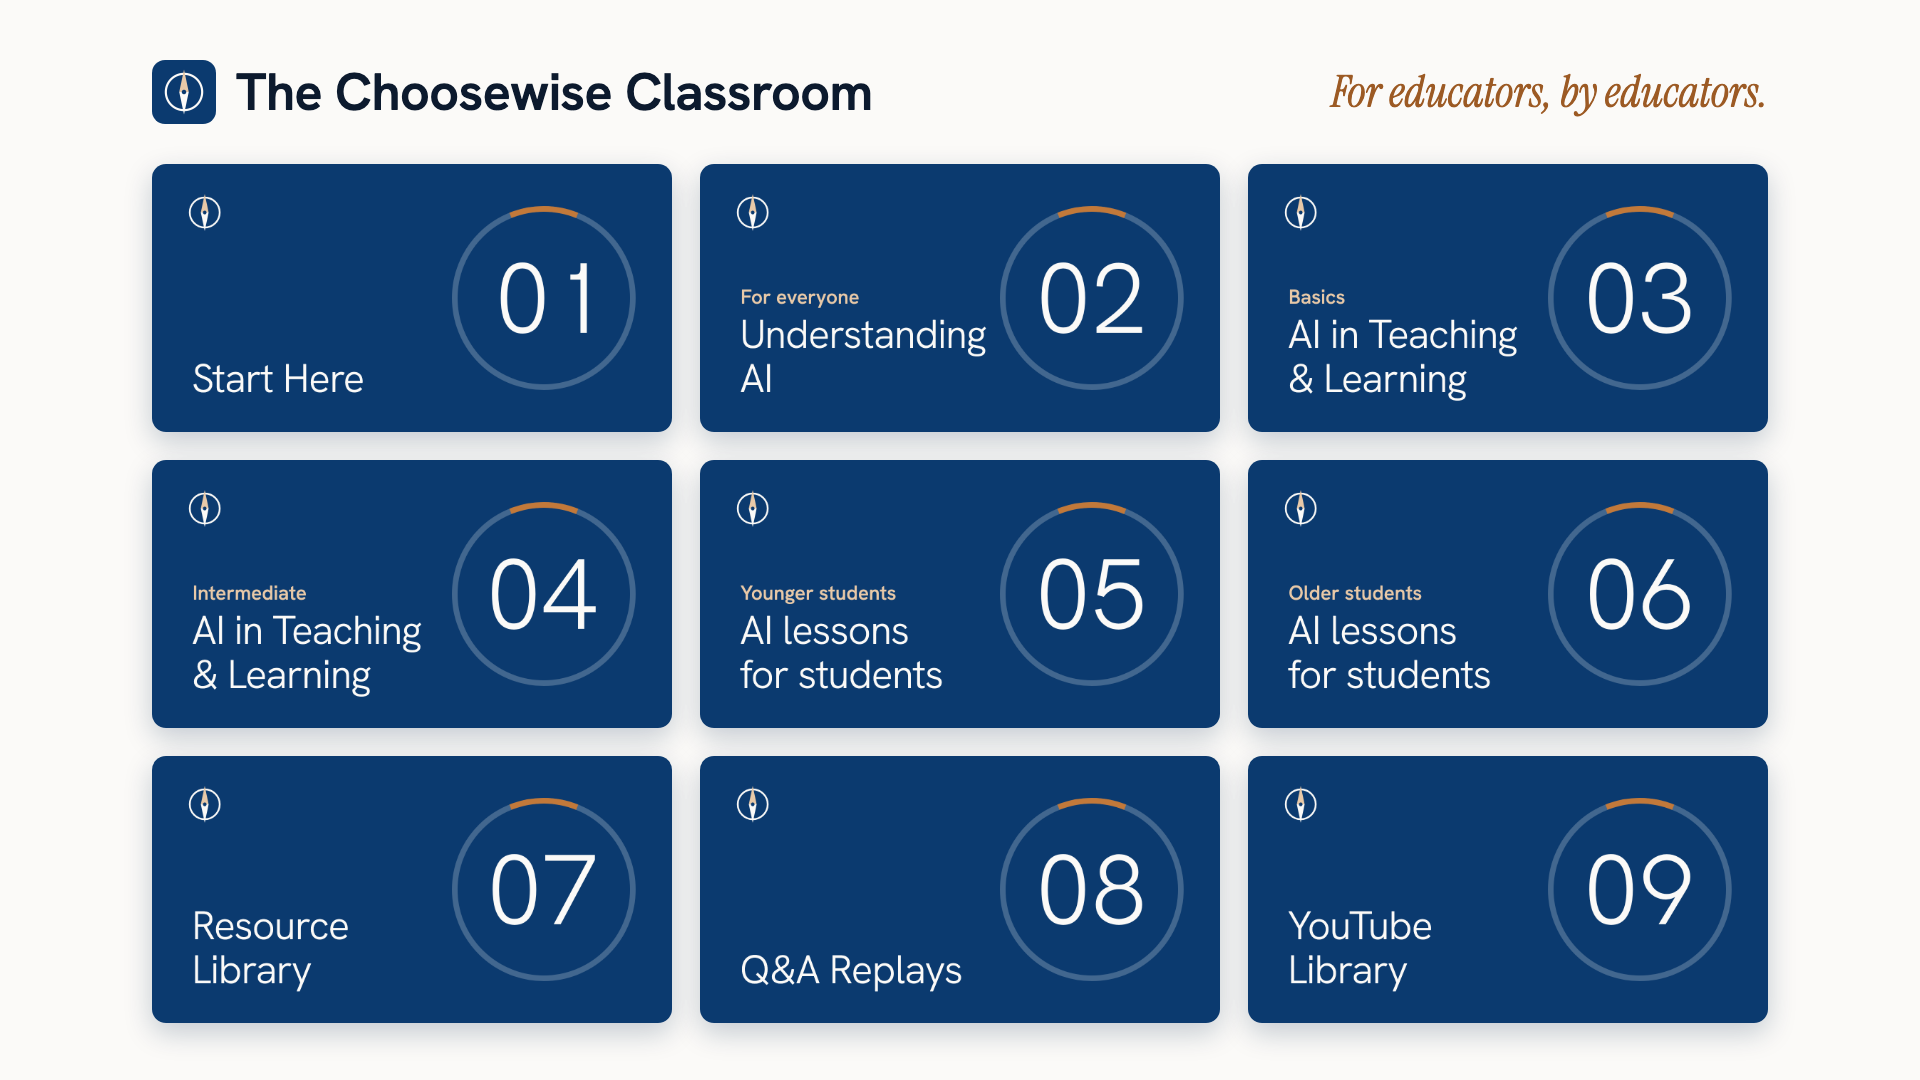
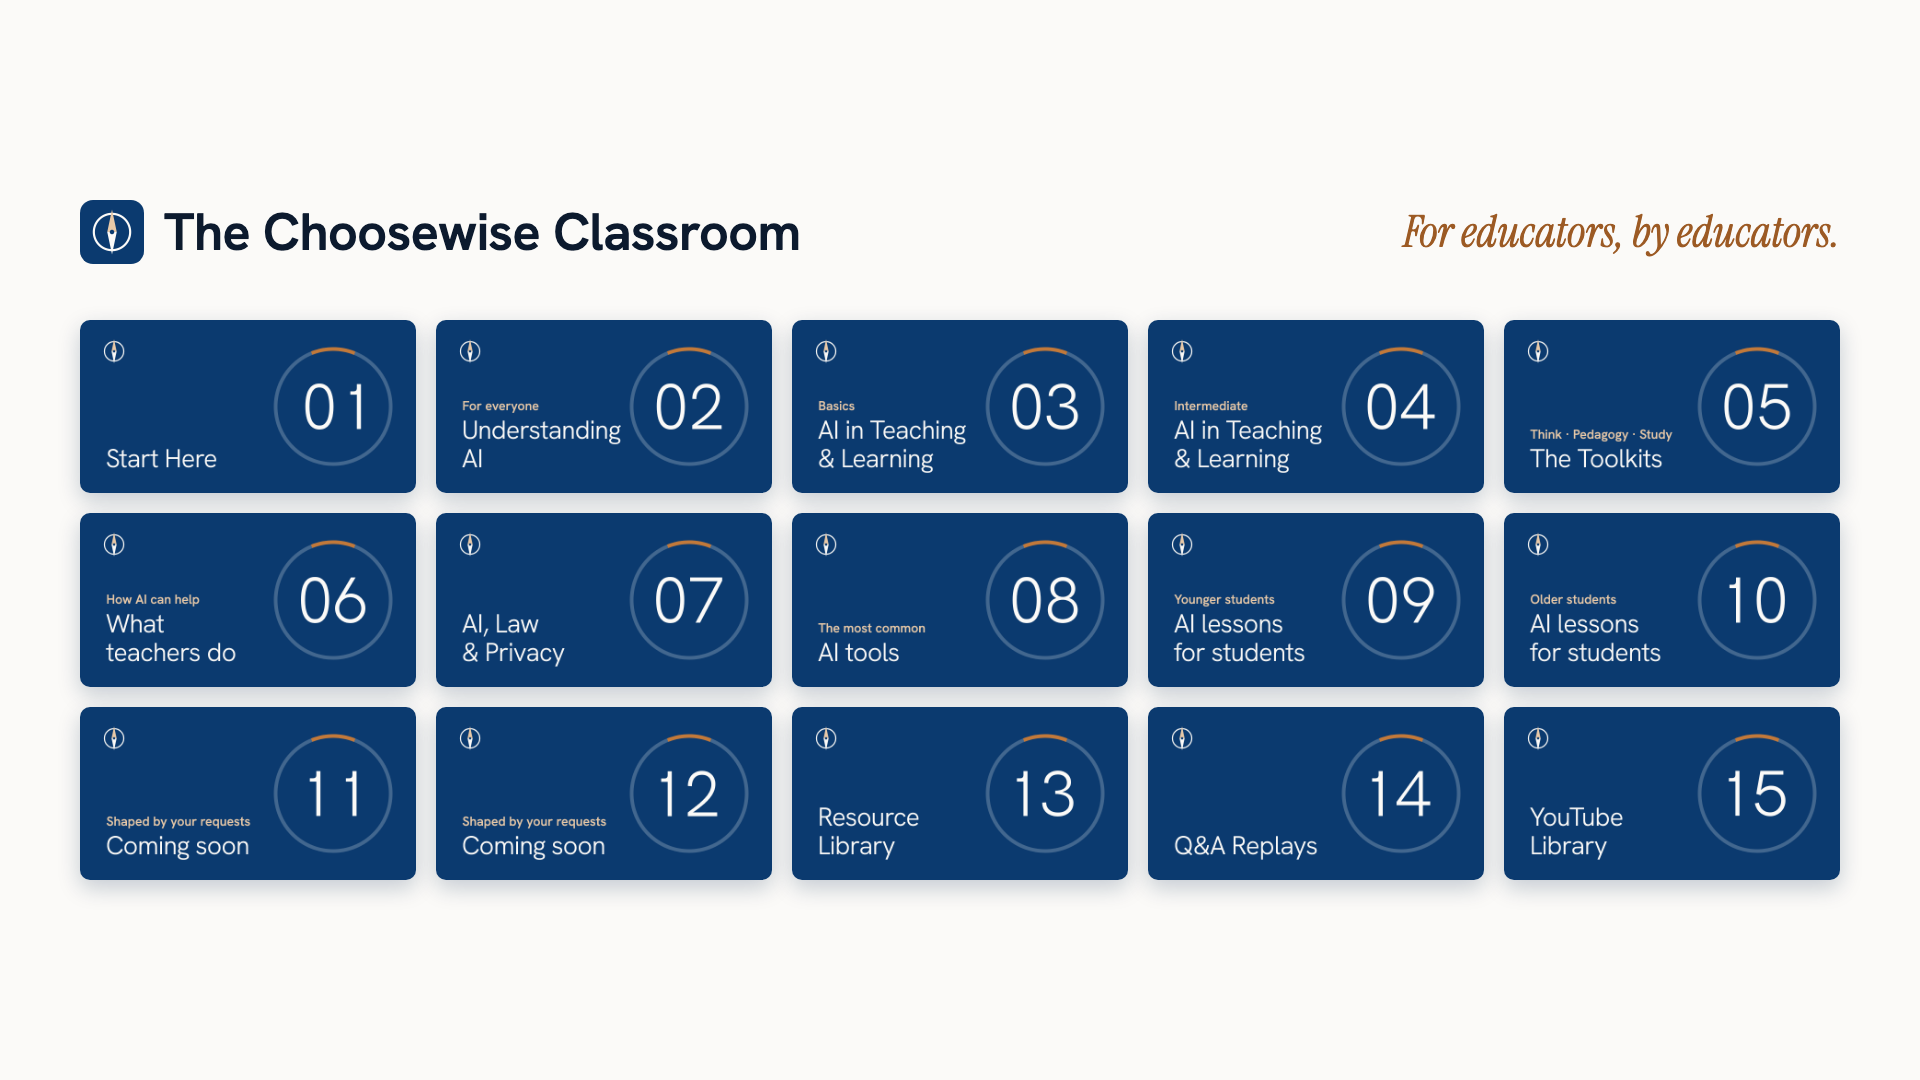
Skool-community: femton kursomslag och översiktsbild 5 × 3
Johans nya kursstruktur 2026-11-25: The Toolkits (05), What teachers do
(06), AI, Law & Privacy (07) och The most common AI tools (08) är nya;
AI lessons for students blir 09–10, Resource Library, Q&A Replays och
YouTube Library blir 13–15. 11 och 12 väntar på medlemmarnas önskemål och
visar Coming soon. Översiktsbilden har fem omslag i bredd och tre rader,
centrerad som grupp. 01–04 är byte för byte desamma.

diff --git a/exports/skool-classroom-1920x1080.html b/exports/skool-classroom-1920x1080.html
@@ -11,7 +11,7 @@
     http://localhost:8765/exports/skool-classroom-1920x1080.html
 
   Samma ljusa stil som säljbilden till About (skool-community-1920x1080.html?v=about).
-  Rutnätet rymmer nio omslag (3 × 3); fler stoppar bygget.
+  Rutnätet rymmer femton omslag (5 i bredd, 3 rader); fler stoppar bygget.
 -->
 <html lang="en">
 <head>
@@ -22,13 +22,17 @@
 <style>
   * { margin: 0; padding: 0; box-sizing: border-box; }
   html, body { width: 1920px; height: 1080px; overflow: hidden; }
-  body { position: relative; background: #FBFAF8; color: #0C1A2E;
-         font-family: 'Hanken Grotesk', -apple-system, sans-serif; }
+  /* Rubrikraden och rutnätet står som en grupp mitt i bilden, med lika
+     mycket luft ovanför som under och lika mycket till vänster som till höger. */
+  body { background: #FBFAF8; color: #0C1A2E;
+         font-family: 'Hanken Grotesk', -apple-system, sans-serif;
+         display: flex; flex-direction: column; align-items: center; justify-content: center;
+         gap: 56px; }
 
   /* ===== RUBRIKRADEN =====
      Logga och rubrik till vänster, taglinen till höger. Raden har samma
      bredd som rutnätet, så kanterna linjerar. */
-  .head { position: absolute; left: 152px; right: 152px; top: 60px; height: 64px;
+  .head { width: 1760px; height: 64px;
           display: flex; align-items: center; justify-content: space-between; }
   .brand { display: flex; align-items: center; gap: 20px; font-size: 52px; font-weight: 600;
            letter-spacing: -0.5px; }
@@ -36,12 +40,12 @@
   .tag { font-family: 'Instrument Serif', Georgia, serif; font-style: italic; font-size: 44px; color: #9C5A24; }
 
   /* ===== OMSLAGEN =====
-     Tre i bredd, i kursernas ordning. 520 px breda i Skools proportion
-     1460 × 752, med rundade hörn och skugga som korten i Classroom. */
-  .grid { position: absolute; left: 152px; top: 164px; display: grid;
-          grid-template-columns: repeat(3, 520px); gap: 28px; }
-  .grid img { display: block; width: 520px; aspect-ratio: 1460 / 752; border-radius: 14px;
-              box-shadow: 0 10px 28px rgba(7, 40, 77, .22); }
+     Fem i bredd, i kursernas ordning: 01–05, 06–10, 11–15. 336 px breda i
+     Skools proportion 1460 × 752, med rundade hörn och skugga som korten i
+     Classroom. 5 × 336 + 4 × 20 = 1760, samma bredd som rubrikraden. */
+  .grid { display: grid; grid-template-columns: repeat(5, 336px); gap: 20px; }
+  .grid img { display: block; width: 336px; aspect-ratio: 1460 / 752; border-radius: 10px;
+              box-shadow: 0 8px 22px rgba(7, 40, 77, .22); }
 </style>
 </head>
 <body>

diff --git a/exports/skool-course-cover-1460x752.html b/exports/skool-course-cover-1460x752.html
@@ -6,7 +6,8 @@
     ?n=01&t1=Start Here
     ?n=02&t1=AI in Teaching&t2=%26 Learning&lv=Basic
       t2 = titelns andra rad, valfri
-      lv = nivån ovanför titeln, valfri; skiljer kurser med samma titel åt
+      lv = lilla raden ovanför titeln, valfri; nivån där kurser delar titel,
+           annars en kort förklaring
 
   Kurslistan står i byggskriptet, som gör alla omslag till PNG:
     /usr/bin/python3 scripts/build-skool-course-covers.py
@@ -50,7 +51,8 @@
     <text id="t1" x="112" y="640"></text>
     <text id="t2" x="112" y="640"></text>
   </g>
-  <!-- Nivån, en rad ovanför titeln, i koppar för text på blått -->
+  <!-- Lilla raden (nivån eller en förklaring), en rad ovanför titeln,
+       i koppar för text på blått -->
   <text id="lv" x="114" y="640" font-size="56" font-weight="500" fill="#E8C9A8"></text>
 
   <!-- Ringen ekar ringen i märket. Den är likadan på alla omslag: inga

diff --git a/scripts/build-skool-course-covers.py b/scripts/build-skool-course-covers.py
@@ -43,20 +43,27 @@ HANKEN = ROOT / "assets/fonts/hanken-grotesk/HankenGrotesk-VariableFont.woff2"
 DIGITS = ROOT / "assets/fonts/cover-digits/CoverDigits-Light.woff2"
 PORT = 8803
 
-# Nummer, titelns första rad, andra rad (tom = en rad), nivå (tom = ingen).
-# Johans kursstruktur 2026-11-11; Research Briefs väntar. Nivån står bara där
-# den skiljer kurser med samma titel åt.
+# Nummer, titelns första rad, andra rad (tom = en rad), lilla raden ovanför
+# titeln (tom = ingen). Johans kursstruktur 2026-11-25; Research Briefs väntar.
+# Den lilla raden är nivån där kurser delar titel, annars en kort förklaring.
+# 11 och 12 väntar på medlemmarnas önskemål och visar "Coming soon" så länge.
 # En titel som når in i ringen stoppar bygget — dela den då på två rader.
 COURSES = [
     ("01", "Start Here", "", ""),
     ("02", "Understanding", "AI", "For everyone"),
     ("03", "AI in Teaching", "& Learning", "Basics"),
     ("04", "AI in Teaching", "& Learning", "Intermediate"),
-    ("05", "AI lessons", "for students", "Younger students"),
-    ("06", "AI lessons", "for students", "Older students"),
-    ("07", "Resource", "Library", ""),
-    ("08", "Q&A Replays", "", ""),
-    ("09", "YouTube", "Library", ""),
+    ("05", "The Toolkits", "", "Think · Pedagogy · Study"),
+    ("06", "What", "teachers do", "How AI can help"),
+    ("07", "AI, Law", "& Privacy", ""),
+    ("08", "AI tools", "", "The most common"),
+    ("09", "AI lessons", "for students", "Younger students"),
+    ("10", "AI lessons", "for students", "Older students"),
+    ("11", "Coming soon", "", "Shaped by your requests"),
+    ("12", "Coming soon", "", "Shaped by your requests"),
+    ("13", "Resource", "Library", ""),
+    ("14", "Q&A Replays", "", ""),
+    ("15", "YouTube", "Library", ""),
 ]
 
 TITLE_MAX_RIGHT = 820   # ringen börjar vid x = 842
@@ -157,7 +164,7 @@ def render_overview(page) -> None:
     if bottom > 1080 - 40:
         raise SystemExit(
             f"Omslagen går utanför översiktsbilden (nederkant {bottom:.0f}). "
-            f"Rutnätet rymmer nio; ändra layouten i {OVERVIEW}.")
+            f"Rutnätet rymmer femton; ändra layouten i {OVERVIEW}.")
     page.screenshot(path=str(OVERVIEW_PNG))
     print(f"  {OVERVIEW_PNG.relative_to(ROOT)}")
 
